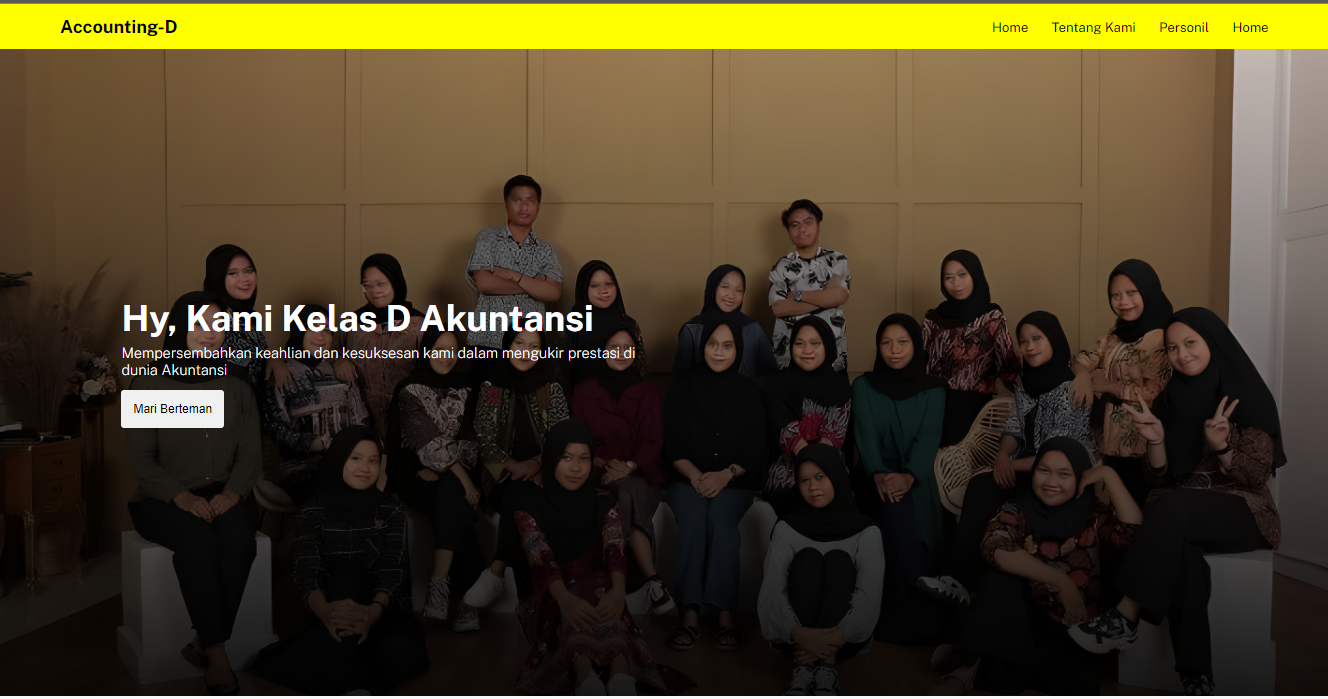
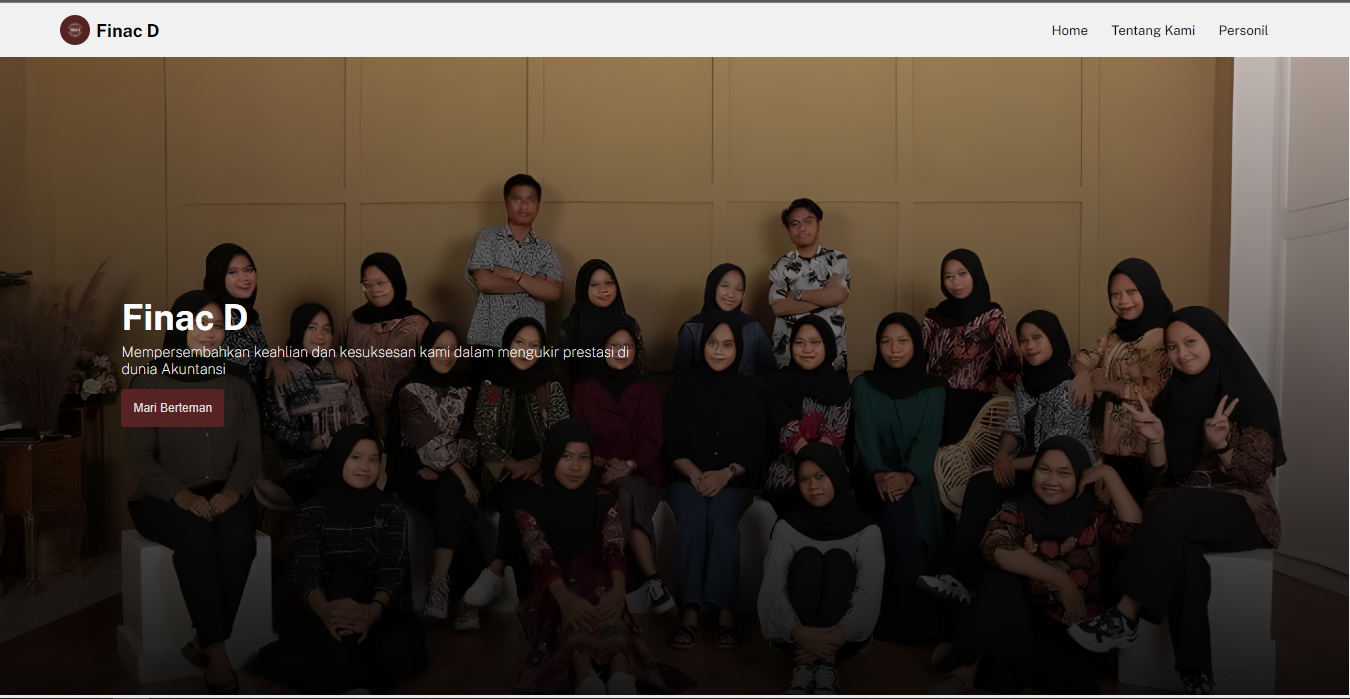
memperbaiki UI/UX Design

diff --git a/css/style.css b/css/style.css
@@ -1,4 +1,5 @@
 * {
+
   margin: 0;
   padding: 0;
   box-sizing: border-box;
@@ -47,20 +48,23 @@ nav .link-list a:hover {
 
 /* ! Hero Section */
 .hero {
-  height: 56rem;
+  height: 58rem;
   display: flex;
   align-items: center;
-  background: rgb(100, 100, 114);
-  background: linear-gradient(90deg, rgba(90, 90, 105, 1) 0%, rgb(73, 73, 102) 53%, rgba(53, 60, 61, 1) 100%);
+  background-image: url(../img/wave.svg);
+  background-repeat: no-repeat;
+  background-position: center;
+  background-size: cover;
 }
 
 .hero .content {
-  padding: 0 17%;
+  padding: 0 11%;
+  display: flex;
+  justify-content: center;
+  align-items: center;
+
 }
 
-.hero .content .me {
-  line-height: 3rem;
-}
 
 .hero .content h1 {
   font-size: 3rem;
@@ -75,7 +79,7 @@ nav .link-list a:hover {
   font-size: 1.6rem;
 }
 
-.hero .content .p1 {
+.hero .content p {
   max-width: 80%;
   font-size: 1.1rem;
   color: #ececec;
@@ -88,6 +92,7 @@ nav .link-list a:hover {
   padding: 1rem 1.5rem;
   border-radius: 5px;
 }
+
 .hero .content button a {
   font-weight: 700;
   font-size: 1rem;
@@ -99,6 +104,9 @@ nav .link-list a:hover {
   background-color: #7b7bdf;
 }
 
+.hero .hero-img img {
+  width: 29rem;
+}
 
 /* ! About Section */
 .about .about-title,
@@ -140,7 +148,10 @@ nav .link-list a:hover {
 
 /* ! Project Section */
 .project {
-  background-color: #524e4e;
+  background-image: url(../img/polygon-scatter.svg);
+  background-position: center;
+  background-repeat: no-repeat;
+  background-size: cover;
 }
 
 .project .project-content {
@@ -148,6 +159,7 @@ nav .link-list a:hover {
   justify-content: center;
   text-align: center;
   flex-wrap: wrap;
+  padding-bottom: 4rem;
 }
 
 .project .project-content .row {
@@ -156,6 +168,7 @@ nav .link-list a:hover {
   background: #4d4949;
   box-shadow: 8px 8px 16px #484545,
     -8px -8px 16px #524d4d;
+  border-radius: 10px;
 }
 
 .project .project-content .row a {
@@ -166,6 +179,8 @@ nav .link-list a:hover {
 .project .project-content .row img {
   width: 27rem;
   object-fit: cover;
+  border-top-left-radius: 10px;
+  border-top-right-radius: 10px;
 }
 
 .project .project-content .row .external-link {
@@ -204,18 +219,22 @@ nav .link-list a:hover {
     -8px -8px 16px #524d4d;
   padding: 3rem;
 }
+
 .kontak .kontak-text p {
   font-size: 1.2rem;
   font-weight: 300;
   margin-bottom: 10rem;
 }
+
 .kontak .kontak-text .sosial {
   height: 1.5rem;
 }
+
 .kontak .text a {
   margin-right: 1rem;
   color: #ffff;
 }
+
 .kontak .text a:hover {
   color: #7b7bdf;
 }
@@ -229,6 +248,7 @@ nav .link-list a:hover {
   box-shadow: 8px 8px 16px #484545,
     -8px -8px 16px #524d4d;
 }
+
 .kontak .kontak-text form .row {
   display: flex;
   align-items: center;
@@ -236,23 +256,29 @@ nav .link-list a:hover {
   margin: 2rem 0;
   border: 1px solid rgb(104, 103, 103);
 }
+
 .kontak .kontak-text form .row:hover {
   border: 1px solid #7b7bdf;
   background-color: #484545;
 }
+
 .kontak .kontak-text form input {
   width: 100%;
   font-size: 1rem;
   margin-left: 1rem;
   background-color: transparent;
-  color: white;;
+  color: white;
+  ;
 }
+
 .kontak .kontak-text form .icon {
   height: 1.5rem;
 }
+
 .kontak .kontak-text .button {
   padding: 1rem 0;
 }
+
 .kontak .kontak-text button {
   padding: 1rem;
   font-size: 1rem;
@@ -260,6 +286,7 @@ nav .link-list a:hover {
   color: #ffffff;
   cursor: pointer;
 }
+
 .kontak .kontak-text button:hover {
   background-color: #7b7bdf;
 }
@@ -292,12 +319,15 @@ footer .credit a {
   html {
     font-size: 62.5%;
   }
+
   .kontak .kontak-text {
     flex-wrap: wrap;
   }
+
   .kontak .kontak-text .text {
     text-align: center;
   }
+
   .about .about-content p {
     max-width: 70rem;
   }
@@ -308,6 +338,7 @@ footer .credit a {
   html {
     font-size: 59%;
   }
+
   nav .link-list {
     position: absolute;
     top: 100%;
@@ -317,17 +348,26 @@ footer .credit a {
 
   .hero .content {
     padding: 13%;
+
+    flex-wrap: wrap;
+  }
+
+  .hero .content>.hero-img:last-child {
+    order: -1;
   }
 
   .hero .content button .p2 a {
     font-size: 8px;
   }
+
   .about .content {
     flex-wrap: wrap;
   }
+
   .project .project-content .row img {
     width: 37rem;
   }
+
   .kontak .kontak-text .kontak-icon .sosial {
     width: 1.5rem;
     height: 1.5rem;

diff --git a/index.html b/index.html
@@ -46,12 +46,15 @@
         <h1>Hy, Saya</h1>
         <h1 class="nama"><span>Ismail DJaini</span></h1>
         <h2>Front End Developer & Accounting</h2>
+        <p>Solusi web inovatif yang disesuaikan dengan kebutuhan Anda dibuat oleh seorang pengembang web
+          terampil</p>
+        <button>
+          <a href="#contact">Ayo Kerjasama</a>
+        </button>
       </div>
-      <p class="p1">Solusi web inovatif yang disesuaikan dengan kebutuhan Anda dibuat oleh seorang pengembang web
-        terampil</p>
-      <button>
-        <a href="#contact">Ayo Kerjasama</a>
-      </button>
+      <div class="hero-img">
+        <img src="img/code.png" alt="">
+      </div>
     </div>
   </section>
   <!-- ! Hero Section End-->
@@ -59,15 +62,15 @@
   <!-- ! About Section Start-->
   <section class="about" id="about">
     <h1 class="about-title" data-aos="fade-up">Tentang <span>Saya</span></h1>
-    <div class="content" data-aos="fade-up">
-      <div class="p">
+    <div class="content">
+      <div class="p" data-aos="fade-right">
         <p>Halo, saya seorang web developer pemula yang sangat antusias dalam bidang ini. Saya percaya bahwa web
           development adalah salah satu cara terbaik untuk menyampaikan pesan dan informasi kepada dunia, dan saya
           sangat senang bisa terlibat dalam menciptakan pengalaman online yang luar biasa bagi pengguna. Sebagai seorang
           web developer pemula, saya telah mempelajari berbagai teknologi dan bahasa pemrograman untuk menciptakan situs
           web yang menarik dan responsif.</p>
       </div>
-      <div class="p">
+      <div class="p" data-aos="fade-left">
         <p>Saya percaya bahwa setiap proyek adalah peluang untuk belajar dan tumbuh dalam keterampilan saya. Saya selalu
           berusaha untuk memahami kebutuhan klien saya dan memberikan hasil yang memenuhi harapan mereka. Saya senang
           berbicara dengan Anda tentang bagaimana saya dapat membantu Anda mencapai tujuan online Anda, jadi jangan ragu
@@ -90,10 +93,10 @@
         </a>
       </div>
       <div class="row">
-        <a href="https://i-djaini.github.io/Finac_D" target="_blank">
+        <a href="https://i-djaini.github.io/Accounting-D">
           <img src="img/2.png" alt="">
           <i class="external-link" data-feather="external-link"></i>
-          <h3>Accounting Website</h3>
+          <h3>Finac Website</h3>
         </a>
       </div>
       <div class="row">

diff --git a/BilaliaStore/css/style.css b/BilaliaStore/css/style.css
@@ -98,7 +98,6 @@ body {
 
 .hero .content h1 span {
   color: #ace7d2;
-  ;
 }
 
 .hero .content p {
